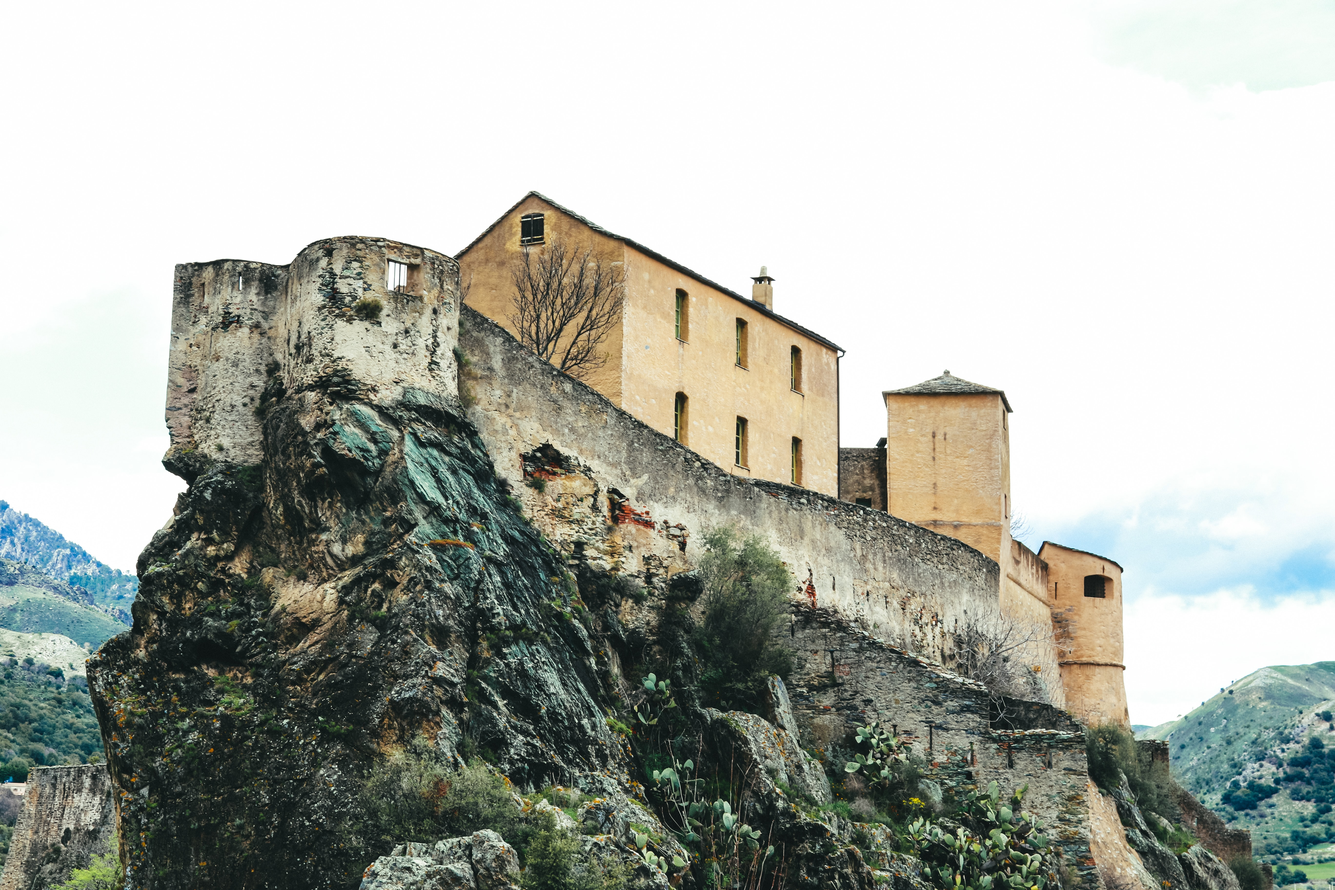
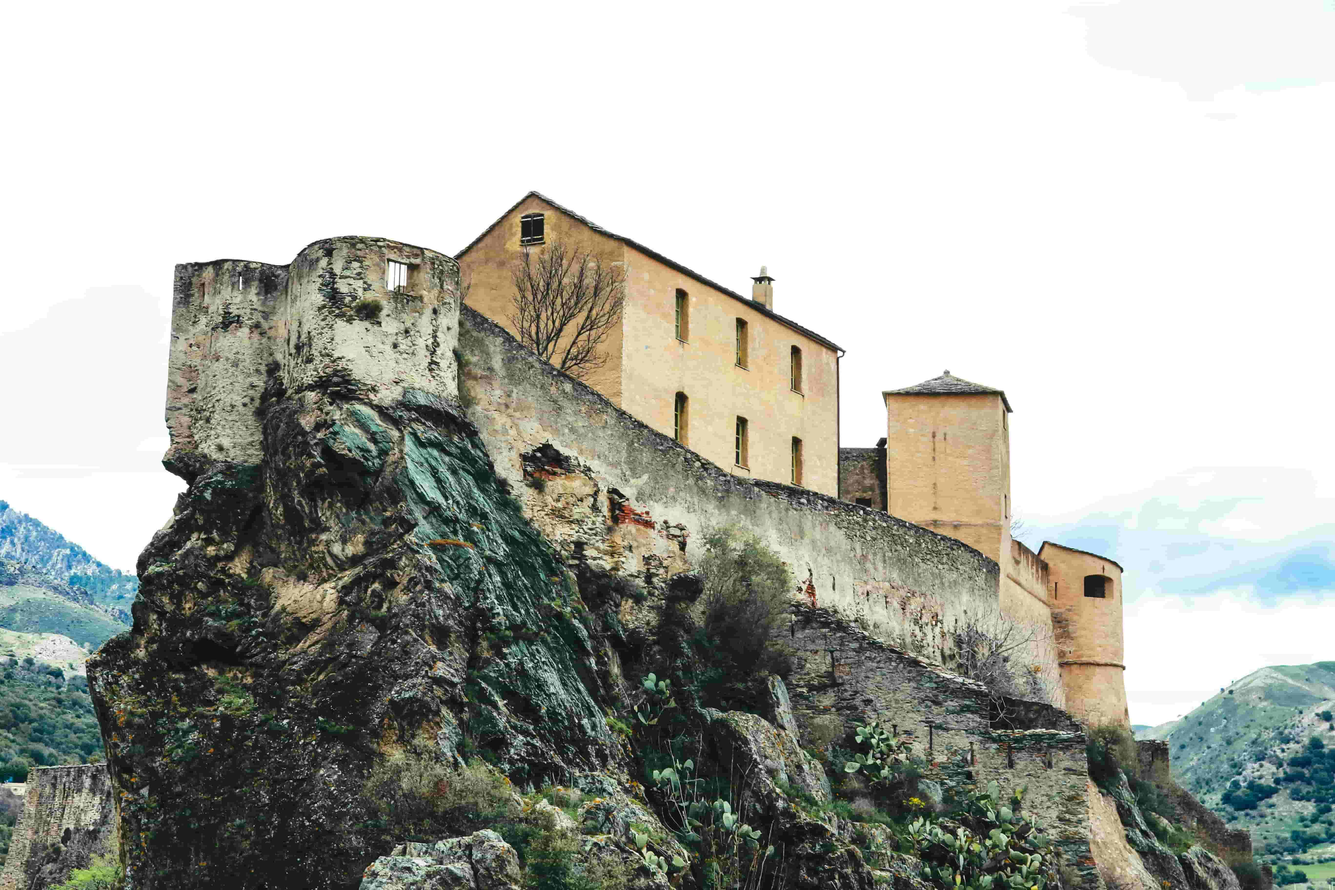
Optimize images

diff --git a/frontend/src/Components/Header/Header.tsx b/frontend/src/Components/Header/Header.tsx
@@ -7,8 +7,9 @@ export default class Header extends Component<IHeaderProps, IHeaderState>{
     }
     render(){
         return(
-            <header>
-                <h1 className="col-sm-12 p-2 bg-dark text-danger">Adventure!</h1>
+            <header className="d-flex bg-dark">
+                <h1 className="col-sm-12 p-2 text-danger">Adventure!</h1>
+
             </header>
         )
     }

diff --git a/frontend/src/Components/Pages/Public/Home.tsx b/frontend/src/Components/Pages/Public/Home.tsx
@@ -6,7 +6,7 @@ export default()=>{
     return(
         <Page>
             <div className="container">
-                <button type="button" className="btn btn-primary col-sm-12">PLAY</button>
+                <button type="button" className="btn btn-danger col-sm-12">PLAY</button>
             </div>
         </Page>
     )

diff --git a/frontend/src/Components/Pages/Page.css b/frontend/src/Components/Pages/Page.css
@@ -9,8 +9,8 @@
 
 main{
     height: 100vh;
-    margin-top: -74px;
-    padding-top: 74px;
+    margin-top: -72px;
+    padding-top: 72px;
 }
 
 @media (min-width: 415px) {
